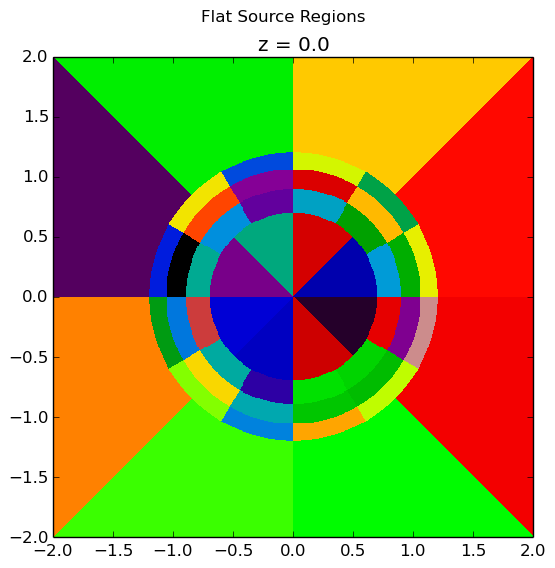
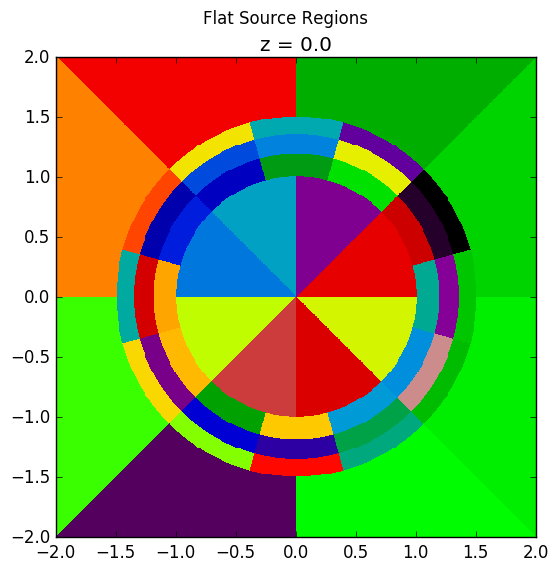
updated pictures in documentation with new sectorize routine

diff --git a/docs/source/usersguide/input.rst b/docs/source/usersguide/input.rst
@@ -393,10 +393,10 @@ The following code snippet illustrates how a user may designate a positive integ
     fuel.setNumRings(3)
     fuel.setNumSectors(12)
 
-    # Subdivide the moderator region into 16 angular sectors
-    moderator.setNumSectors(16)
+    # Subdivide the moderator region into 4 angular sectors
+    moderator.setNumSectors(4)
 
-The plots shown below illustrate the pin cell material layout (left) and flat source region layout (right) where the flat source regions have been discretized using 3 equal volume rings and 12 sectors in the fuel and 16 sectors in the moderator.
+The plots shown below illustrate the pin cell material layout (left) and flat source region layout (right) where the flat source regions have been discretized using 3 equal volume rings and 12 sectors in the fuel and 4 sectors in the moderator.
 
 .. _figure_pin_cell_fsrs:
 
@@ -410,7 +410,7 @@ The plots shown below illustrate the pin cell material layout (left) and flat so
    |   :align: right                                        |   :align: left                                         |
    +--------------------------------------------------------+--------------------------------------------------------+
 
-The user may wish to capture gradients in the moderator by adding rings in the moderator. The following code snippet repeats the scenario above, but with 2 rings in the moderator.
+As seen in the figure above, the sector divisions start along the plane :math:`\pi/4` radians clockwise of the horizontal plane. The user may wish to capture gradients in the moderator by adding rings in the moderator. The following code snippet repeats the scenario above, but with 2 rings in the moderator.
 
 .. code-block:: python
 
